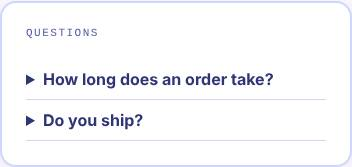
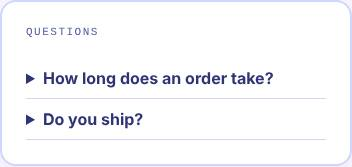
FAQ at the bottom of the home page; back-to-top arrow on phones
Claude-Session: https://claude.ai/code/session_01GAttB9YBR3Hpx3ScUAK3FU

diff --git a/features.js b/features.js
@@ -1406,7 +1406,7 @@ const FEATURE_SWITCHES = [
   ['recentWork', '"My Work" photos on the home page'],
   ['howItWorks', '"How it works" on the home page'],
   ['reviews', 'Reviews (home page, design pages, and the review form)'],
-  ['faq', 'FAQ on the home page'],
+  ['faq', 'FAQ at the bottom of the home page'],
   ['queue', 'Order queue and wait estimates'],
   ['orderAgain', '"Order again" button'],
   ['leftoverRolls', '"Your leftover rolls" card on My Requests'],
@@ -1472,7 +1472,7 @@ function renderFaq() {
 const AREA_PREVIEWS = {
   about: 'the About card on the home page', colors: 'the color choices on the request form', prices: 'the price estimate on the request form',
   wording: '"How it works" on the home page', vacation: 'the notice at the top of the home page', reviews: 'reviews on the home page',
-  faq: 'the FAQ on the home page', 'text-menu': 'the menu buttons', 'text-form': 'the request form', 'text-gallery': 'the past work page',
+  faq: 'the FAQ at the bottom of the home page', 'text-menu': 'the menu buttons', 'text-form': 'the request form', 'text-gallery': 'the past work page',
   'text-steps': 'an order on My Requests'
 };
 function areaPreview(name) {
@@ -1646,4 +1646,25 @@ function renderOePartColors(it, i) {
       </div>
     </div>`).join('')}
   </div>`;
+}
+
+// ── BACK TO TOP (phones) ──────────────────────────────────────────────────
+// A small arrow in the corner once you've scrolled down a long page. It sits outside the redrawn page,
+// so it's made once; only shown on narrow screens (styles.css).
+function setupBackToTop() {
+  if (document.getElementById('back-to-top')) return;
+  const btn = document.createElement('button');
+  btn.type = 'button';
+  btn.id = 'back-to-top';
+  btn.className = 'back-to-top';
+  btn.setAttribute('aria-label', 'Back to top');
+  btn.innerHTML = '<svg viewBox="0 0 24 24" aria-hidden="true" fill="none" stroke="currentColor" stroke-width="2.5" stroke-linecap="round" stroke-linejoin="round"><path d="M12 19V5M5 12l7-7 7 7"/></svg>';
+  btn.onclick = () => {
+    window.scrollTo({ top: 0, behavior: 'smooth' });
+    document.getElementById('main')?.focus({ preventScroll: true });
+  };
+  document.body.appendChild(btn);
+  const update = () => btn.classList.toggle('show', window.scrollY > 600);
+  window.addEventListener('scroll', update, { passive: true });
+  update();
 }

diff --git a/tests/site.test.js b/tests/site.test.js
@@ -1322,6 +1322,25 @@ const STATES = {
     assert(!missing.length, `missing pictures: ${missing}`);
     await page.close();
   });
+  await check('FAQ is at the bottom of the home page; phones get a back-to-top arrow', async () => {
+    const db = fixtures();
+    db.settings.faq = [{ id: 'f1', q: 'Do you ship?', a: 'Pickup only.', live: true }];
+    const page = await open(db);
+    assert(await page.evaluate(() => { const faq = document.querySelector('.faq'); const form = document.getElementById('submit-btn');
+      return !!faq && !!(form.compareDocumentPosition(faq) & Node.DOCUMENT_POSITION_FOLLOWING); }), 'FAQ should come after the request form');
+    await page.setViewportSize({ width: 390, height: 800 });
+    assert(!(await page.isVisible('#back-to-top')), 'arrow should be hidden at the top');
+    await page.evaluate(() => window.scrollTo(0, 2000));
+    await page.waitForTimeout(200);
+    assert(await page.isVisible('#back-to-top'), 'arrow should show after scrolling down');
+    await page.click('#back-to-top');
+    await page.waitForTimeout(800);
+    assert(await page.evaluate(() => window.scrollY) < 50, 'arrow should go back to the top');
+    await page.setViewportSize({ width: 1280, height: 800 });
+    await page.evaluate(() => window.scrollTo(0, 2000));
+    assert(!(await page.isVisible('#back-to-top')), 'no arrow on wide screens');
+    await page.close();
+  });
   await check('show / hide: switched-off parts of the site disappear', async () => {
     const db = fixtures();
     const owner = await open(db);

diff --git a/app.js b/app.js
@@ -1123,6 +1123,7 @@ async function fetchNameFromServer(url) {
 
 // ── INIT ──────────────────────────────────────────────────────────────────
 async function init() {
+  setupBackToTop();
   loadPreviewDrafts();
   loadModelLibrary();
   loadClientHistoryEmail();
@@ -1306,7 +1307,6 @@ function renderSubmitTab() {
     ${featureOn('recentWork') ? renderRecentWork() : ''}
     ${featureOn('howItWorks') ? renderHowItWorks() : ''}
     ${renderReviews(state.settings.reviews)}
-    ${renderFaq()}
     <div class="section-header">
       <div class="section-icon">
         <svg viewBox="0 0 24 24" fill="none" stroke="currentColor" stroke-width="2"><path d="M12 5v14M5 12h14"/></svg>
@@ -1347,6 +1347,7 @@ function renderSubmitTab() {
     <div class="field-help" style="text-align:center;margin-top:8px;">${esc(t('submitNote'))}${state.settings.about.replyTime ? ` (${esc(state.settings.about.replyTime.replace(/^I\s+/i, '').replace(/\.$/, ''))})` : ''}.</div>
     <div class="alert error" id="submit-err"></div>
     <div class="alert success" id="submit-ok"></div>
+    ${renderFaq()}
   `;
 }
 

diff --git a/styles.css b/styles.css
@@ -768,3 +768,9 @@ textarea { resize: vertical; min-height: 70px; }
 .area-preview { margin: 0 0 12px; display: flex; gap: 10px; align-items: center; flex-wrap: wrap; }
 .area-preview img { display: block; max-width: 160px; max-height: 120px; width: auto; height: auto; border-radius: 8px; border: 2px solid var(--border); background: var(--surface2); }
 .area-preview figcaption { font-size: 12px; color: var(--muted); flex: 1; min-width: 140px; }
+
+/* Back to top arrow (phones only) */
+.back-to-top { display: none; position: fixed; right: 16px; bottom: calc(16px + env(safe-area-inset-bottom, 0px)); width: 44px; height: 44px; border-radius: 50%; border: 2px solid var(--accent); background: var(--accent); color: var(--on-accent); box-shadow: 0 4px 14px rgba(55,20,110,0.35); cursor: pointer; z-index: 50; align-items: center; justify-content: center; padding: 0; }
+.back-to-top svg { width: 22px; height: 22px; }
+@media (max-width: 760px) { .back-to-top.show { display: flex; } }
+@media print { .back-to-top { display: none !important; } }
